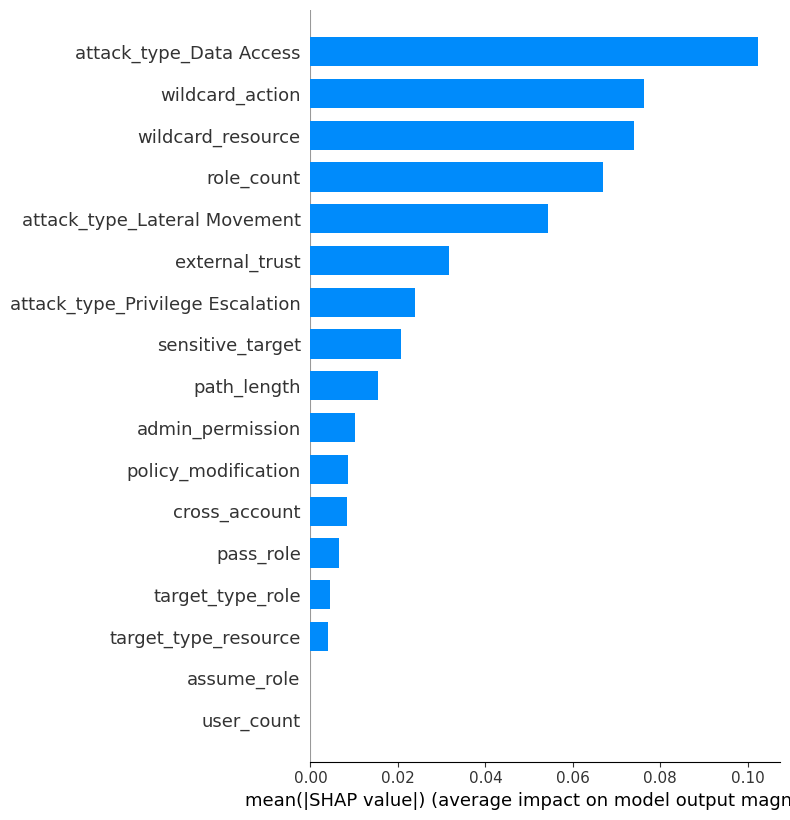
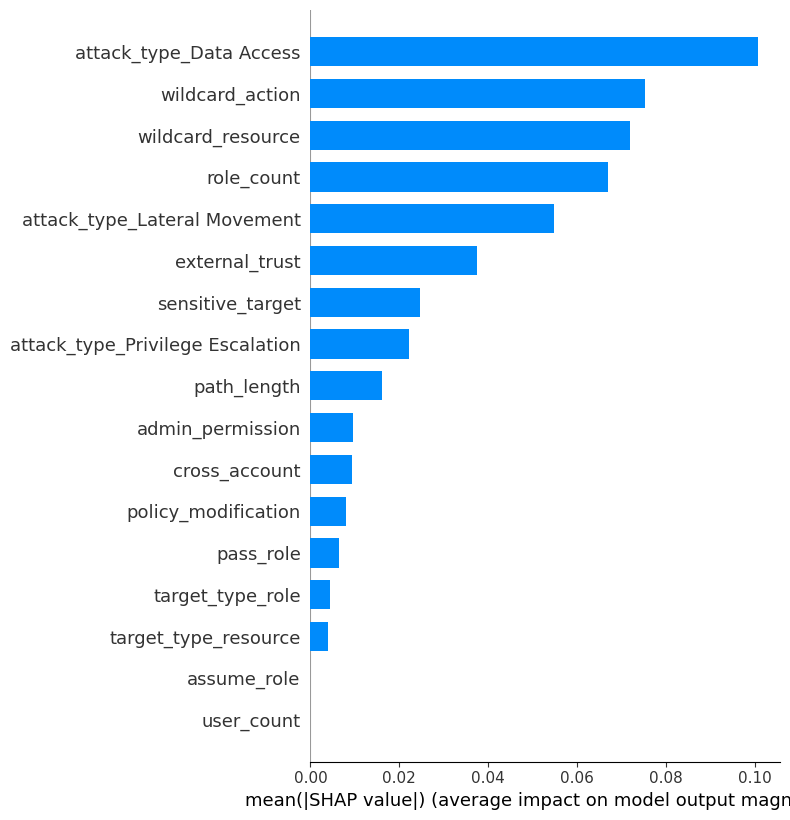
Document Phase 4-7 in README.md and add sample SHAP outputs
README.md previously only documented Phases 1-3 and listed Phases
4-7 as "Future". Added full sections for Phase 4 (feature
extraction), Phase 5 (dataset generation), Phase 6 (ML training/
prediction), and Phase 7 (SHAP explainability), with CLI usage and
output schemas, matching the existing Phase 1-3 documentation style.
Also updated the architecture list and scope notes accordingly.

diff --git a/README.md b/README.md
@@ -9,10 +9,13 @@ This project implements an end-to-end framework for analyzing, modeling, and exp
 - **Phase 1: IAM Configuration Parsing and Normalization** (Completed)
 - **Phase 2: Attack Graph Construction** (Completed)
 - **Phase 3: Attack Path Traversal & Detection** (Completed)
-- **Phase 4: Path Feature Extraction** (Future)
-- **Phase 5: Machine Learning Risk Assessment** (Future)
-- **Phase 6: Explainable AI (XAI / SHAP)** (Future)
-- **Phase 7: Remediation Engine & Verification** (Future)
+- **Phase 4: Path Feature Extraction** (Completed)
+- **Phase 5: Synthetic Dataset Generation** (Completed)
+- **Phase 6: Machine Learning Risk Assessment** (Completed)
+- **Phase 7: Explainable AI (XAI / SHAP)** (Completed)
+- **Phase 8: Choke Point Detection** (Planned)
+- **Phase 9: Remediation Engine** (Planned)
+- **Phase 10: Interactive Dashboard** (Planned)
 
 ---
 
@@ -87,7 +90,7 @@ Matches permission resource patterns to known graph nodes without requiring live
 ### 6. Handling of Conditions
 
 - Conditions (e.g., `aws:MultiFactorAuthPresent`, `aws:SourceIp`) are retained verbatim in the edge's `conditions` dictionary.
-- Conditions are not evaluated during Phase 2; they are preserved as first-class edge metadata for path feature extraction (Phase 4) and explanation (Phase 6).
+- Conditions are not evaluated during Phase 2; they are preserved as first-class edge metadata for path feature extraction (Phase 4) and explanation (Phase 7).
 
 ### 7. Serialization Format
 
@@ -218,7 +221,139 @@ Paths can be filtered without re-running traversal:
 
 ---
 
+## Phase 4: Path Feature Extraction
+
+Phase 4 converts each Phase 3 attack path into a flat, deterministic feature vector consumed by everything downstream (Phase 5's labeling rules, Phase 6's models, Phase 7's SHAP explanations).
+
+### 1. Feature Categories (`features/feature_schema.py`)
+
+`FEATURE_NAMES` fixes a canonical, ordered list of ~45 features grouped into: path structure (`hop_count`, `role_count`, `user_count`, ...), edge-type counts (`assume_count`, `has_passrole`, ...), permission breadth (`wildcard_action_count`, `has_wildcard_resource`, ...), trust/principal features (`external_principal_count`, `has_wildcard_principal`, ...), condition features, effect counts, target metadata (`target_sensitive`, `target_criticality`), and composition ratios (`role_hop_ratio`, `assume_ratio`, ...).
+
+### 2. Extraction (`features/feature_extractor.py`)
+
+`extract_features(path: dict) -> dict` takes one Phase 3 path dict and returns `{"scenario_id", "path_id", "source", "target", "features": {...}}`, where `features` matches `FEATURE_NAMES` exactly. Trust-principal features (`external_principal_count`, etc.) read `edge["metadata"]["principal_type"]`, which `graph_builder.py` tags as `"internal"`, `"service"`, `"external"`, or `"wildcard"` on every `CAN_ASSUME` edge.
+
+### Phase 4 CLI
+```bash
+python -m features.main output/scenario_009_paths.json --output output/scenario_009_features.json
+python -m features.main output/scenario_009_paths.json --format csv --output output/scenario_009_features.csv
+```
+
+---
+
+## Phase 5: Synthetic Dataset Generation
+
+Phase 5 generates a large, labeled dataset of attack paths for ML training, since real AWS IAM configurations aren't used in this project. It runs the full Phase 1→4 pipeline in-process (no file round-trips) over synthetic, randomly generated IAM scenarios.
+
+### 1. Scenario Library (`dataset/scenario_library.py`)
+
+Nine deterministic scenario templates, one per attack pattern: `read_only` (LOW), `wildcard_s3` (MEDIUM), `pass_role_escalation`, `assume_role_chain`, `long_chain` (HIGH), `external_trust_critical`, `policy_modification`, `cross_account_wildcard`, `admin_wildcard` (CRITICAL). Each is built from small composable pieces in `dataset/entity_factory.py` (random user/role/resource names, trust statements, permission statements) and returns `(raw_scenario, meta)`, where `meta` records which resources are sensitive and which roles need to be probed as explicit `iam:PassRole` targets (since `iam:PassRole` alone never reaches an auto-discovered resource target -- see `path/traversal_policy.py`).
+
+### 2. Orchestration (`dataset/generator.py`)
+
+For each of `--count` scenarios: pick a scenario type (weighted so the four risk labels come out roughly even), build it, and run it through `parser.normalizer` → `graph.graph_builder` → `path.path_finder` → `features.feature_extractor`, assembling one labeled row per discovered attack path. Deterministic for a fixed `--seed` (default `42`, matching CLAUDE.md's `random_state = 42`).
+
+### 3. Ground-Truth Labeling (`dataset/label_generator.py`)
+
+A pure function `classify(row) -> (risk_label, risk_score, attack_type, risk_cause)`. Priority order is CRITICAL → HIGH → MEDIUM → LOW: CRITICAL for `admin_permission`, `external_trust`, `cross_account`, `policy_modification`, or (`wildcard_action` **and** `sensitive_target`); HIGH for `pass_role`, an `assume_role` chain (`role_count >= 2`), a long path (`path_length >= 4`), or a sensitive target reached; MEDIUM for any wildcard; otherwise LOW.
+
+### 4. Dataset Schema (`dataset/schema.py`)
+
+```
+scenario_id, path_id, source_identity, target_resource, path_length, role_count,
+user_count, assume_role, pass_role, wildcard_action, wildcard_resource,
+policy_modification, external_trust, cross_account, sensitive_target,
+admin_permission, risk_label, risk_score, attack_type, risk_cause
+```
+
+### Phase 5 CLI
+```bash
+python -m dataset.main --count 5000 --seed 42 --output data/processed/iam_attack_dataset.csv
+```
+
+---
+
+## Phase 6: Machine Learning Risk Assessment
+
+Phase 6 trains supervised classifiers on the Phase 5 dataset to predict `risk_label` for unseen attack paths.
+
+### 1. Preprocessing (`models/preprocess.py`)
+
+Loads the CSV, derives `target_type` from the `target_resource` node-id prefix (`user:`/`role:`/`resource:`), one-hot encodes `attack_type`/`target_type`, and splits 70/15/15 (train/val/test), stratified on `risk_label`, `random_state = 42`.
+
+### 2. Training (`models/train.py`)
+
+Trains Logistic Regression and Random Forest (scikit-learn) plus XGBoost when its native library is importable in the current environment; each model is saved to `models/<name>.pkl` via `joblib`, along with `models/feature_columns.pkl` (the exact column order needed for inference).
+
+### 3. Evaluation (`models/evaluate.py`)
+
+Computes accuracy, weighted precision/recall/F1, weighted ROC-AUC, a confusion matrix, a full classification report, and (for Random Forest) feature importances -- written to `evaluation/model_metrics.json`.
+
+### Phase 6 CLI
+```bash
+python -m models.train --input data/processed/iam_attack_dataset.csv
+python -m models.predict --path-id <path_id from the CSV>
+```
+
+Example `predict` output:
+```json
+{
+  "path_id": "synthetic_00005_path_001",
+  "predicted_label": "CRITICAL",
+  "predicted_score": 1.0,
+  "confidence": 0.9971
+}
+```
+
+---
+
+## Phase 7: Explainable AI Using SHAP
+
+Phase 7 explains every Random Forest prediction with per-feature SHAP contributions.
+
+### 1. Explainer (`explainability/shap_explainer.py`)
+
+Wraps `shap.TreeExplainer` around the saved Random Forest -- Random Forest is the designated explainability model (CLAUDE.md section 6.3); tree ensembles need no background dataset.
+
+### 2. Local Explanations (`explainability/explain_prediction.py`)
+
+`explain_path(path_id)` returns the top 6 SHAP contributors for that path's predicted class:
+```json
+{
+  "path_id": "synthetic_00005_path_001",
+  "prediction": "CRITICAL",
+  "top_factors": [
+    {"feature": "policy_modification", "impact": 0.1059},
+    {"feature": "role_count", "impact": 0.0839}
+  ]
+}
+```
+
+### 3. Plots (`explainability/visualize.py`)
+
+Global summary and feature-importance bar plots (averaged across all four risk classes), plus local waterfall/force/decision plots for one path -- all saved under `evaluation/shap/`.
+
+### Phase 7 CLI
+```bash
+python -m explainability.export_explanation --path-id <path_id>
+python -m explainability.export_explanation --all --output evaluation/shap/explanations.json
+```
+
+### What Phases 5-7 Do Not Do
+
+- Detect attacks in progress, or analyze live logs/CloudTrail (this is a posture-assessment tool: it scores latent risk in a *given* IAM configuration, not runtime activity)
+- Map a prediction's top SHAP factor back onto a specific graph edge as a single "choke point" (Phase 8, planned)
+- Generate plain-language remediation text (Phase 9, planned)
+- Provide any visual dashboard (Phase 10, planned)
+
+---
+
 ## Running the Project
+
+### Setup
+```bash
+pip3 install --user -r requirements.txt
+```
 
 ### Phase 1 Parser CLI
 ```bash
@@ -246,6 +381,27 @@ python -m path.main output/scenario_009_graph.json \
 python -m path.main output/scenario_009_graph.json --min-hops 2 --output output/scenario_009_multihop_paths.json
 ```
 
+### Phase 4 Feature Extraction CLI
+```bash
+python -m features.main output/scenario_009_paths.json --output output/scenario_009_features.json
+```
+
+### Phase 5 Dataset Generation CLI
+```bash
+python -m dataset.main --count 5000 --output data/processed/iam_attack_dataset.csv
+```
+
+### Phase 6 Model Training & Prediction CLI
+```bash
+python -m models.train --input data/processed/iam_attack_dataset.csv
+python -m models.predict --path-id <path_id from the CSV>
+```
+
+### Phase 7 Explainability CLI
+```bash
+python -m explainability.export_explanation --path-id <path_id>
+```
+
 ### Running Automated Tests
 ```bash
 python -m unittest discover -s tests -p "test_*.py" -v
@@ -266,4 +422,4 @@ Phase 3 **DOES NOT**:
 - Connect to AWS live accounts or APIs
 - Provide a web frontend or GUI
 
-All risk assessment, feature extraction, ML training, and XAI explanations belong to Phase 4 and beyond.
+Risk assessment, feature extraction, ML training, and XAI explanations are Phases 4-7 (all now complete, documented above). Choke-point detection, remediation, and dashboarding are Phases 8-10, planned but not yet implemented.
